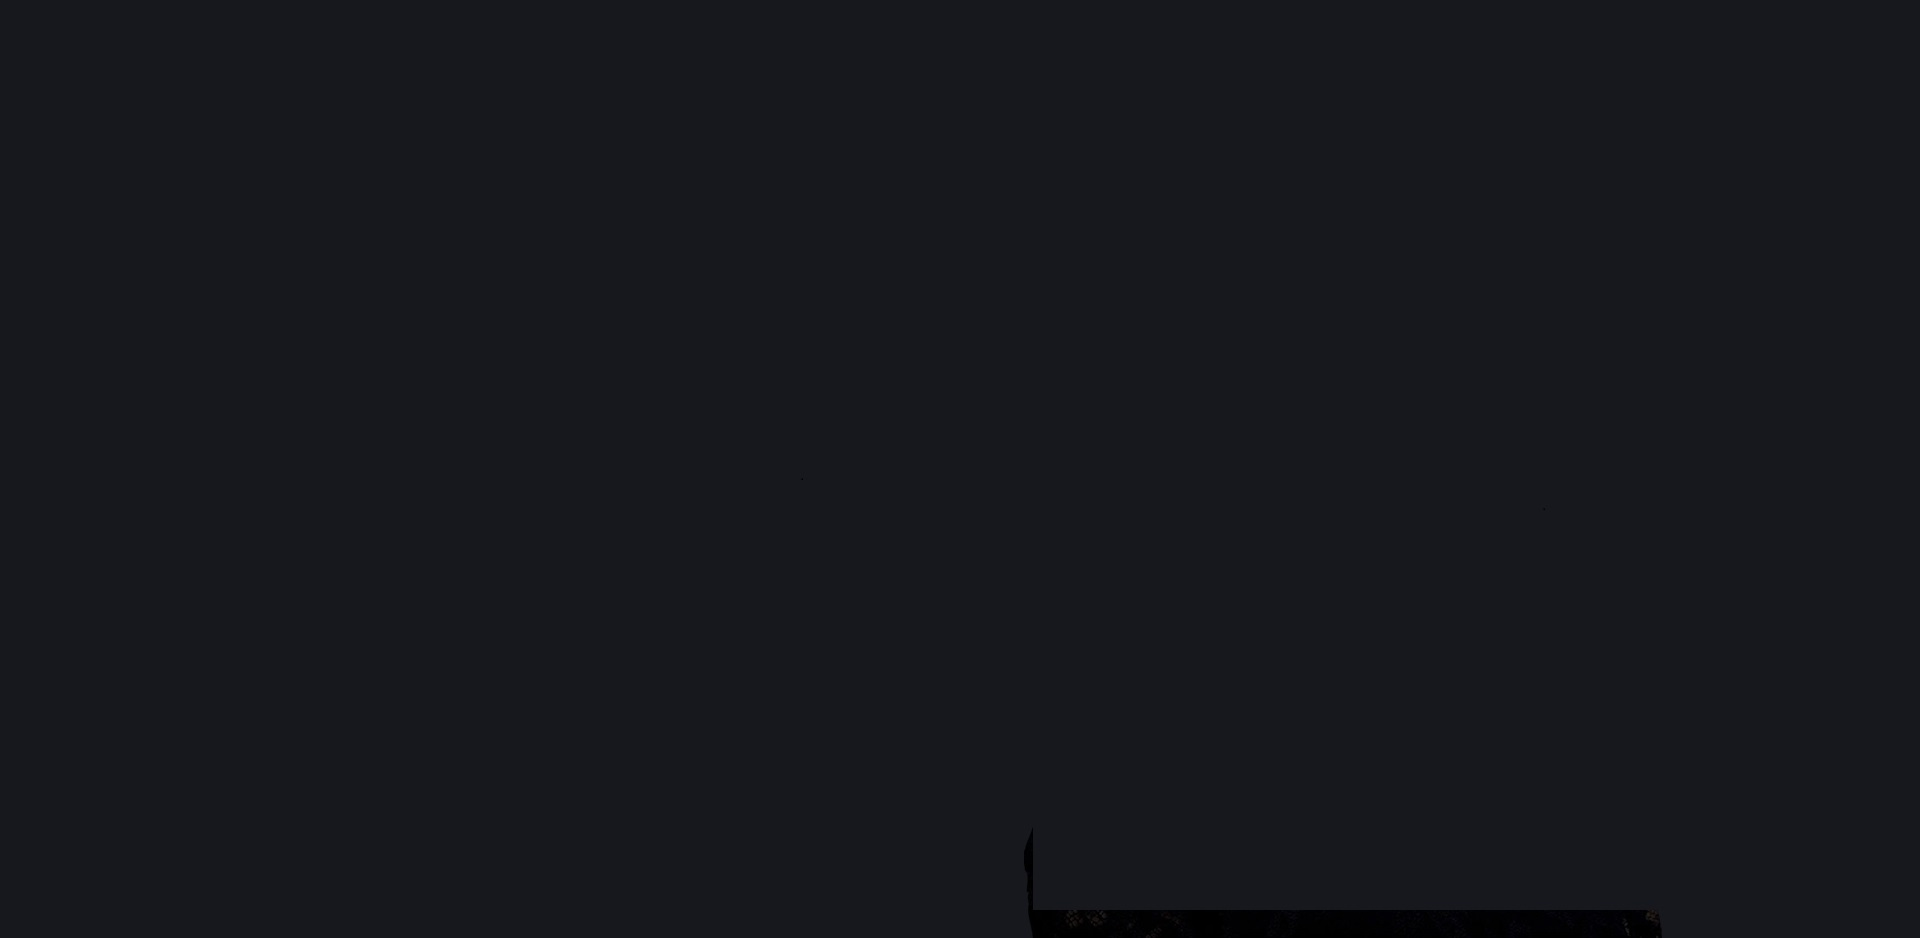
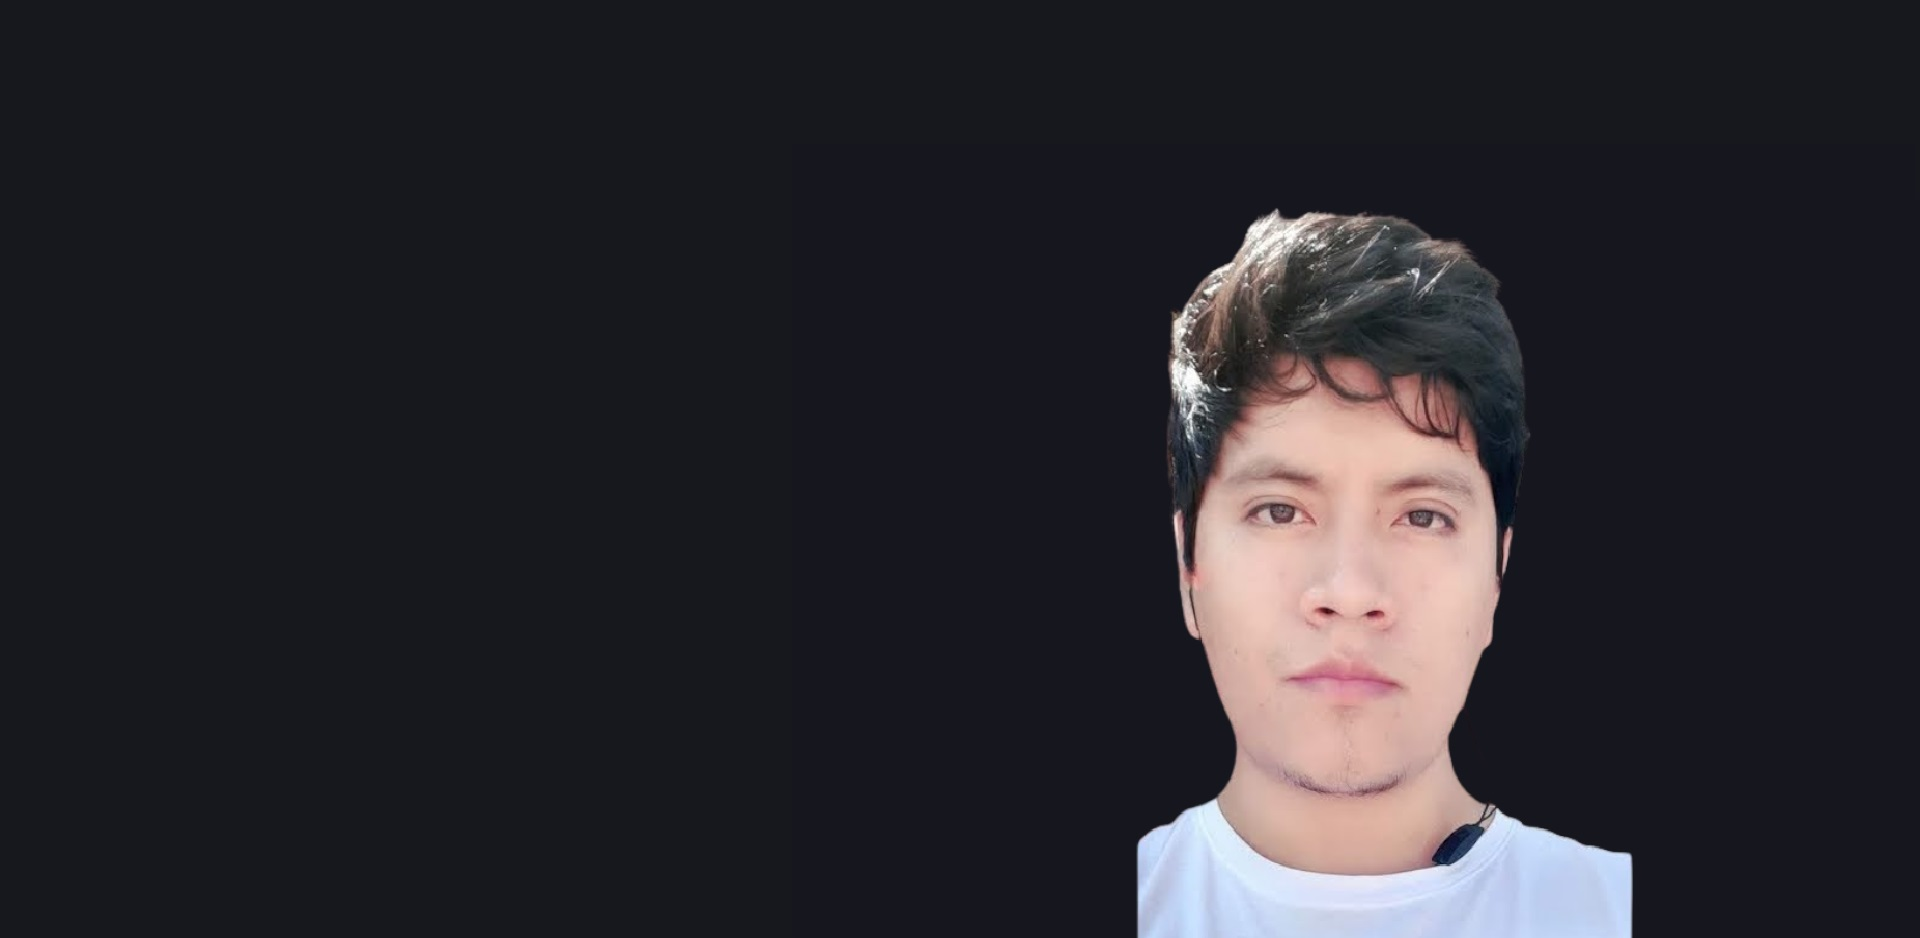
update

Changed region(s): [[0.5312, 0.2164, 0.875, 1.0], [0.5312, 0.8966, 0.5625, 0.9275]]

diff --git a/index.html b/index.html
@@ -87,7 +87,7 @@
                     </div>
                 </div>
 
-                <img src="assets/img/home-img.png" alt="" class="home__img">
+                <img src="assets/img/Perfil-removebg-PhotoRoom.png" alt="" class="home__img">
                 <div class="home__data">
                     <h1 class="home__title">Hello, I'm Jhonatan Mantilla</h1>
                     <h3 class="home__subtitle">Full-Stack Developer</h3>
@@ -133,7 +133,7 @@
             <h2 data-heading="My Info" class="section__title">About Me</h2>
        
             <div class="about__container container grid">
-                <img src="assets/img/about-img.jpg" alt="" class="about__img">
+                <img src="assets/img/Perfil-removebg-PhotoRoom.png" alt="" class="about__img">
             
                 <div class="about__data">
                     <h3 class="about__heading">Hi, I'm Jhonatan Mantilla</h3>
@@ -790,27 +790,28 @@
                 </div>
 
                 <div class="contact__content">
-                    <form action="" class="contact__form">
+                    <form action="" class="contact__form" id="contact__form">
                         <div class="input__container">
-                            <input type="text" class="input">
+                            <input type="text" class="input" name="name" id="contact__username">
                             <label for="">Username</label>
                             <span>Username</span>
                         </div>
                         <div class="input__container">
-                            <input type="email" class="input">
+                            <input type="email" class="input" name="email" id="contact__email">
                             <label for="">Email</label>
                             <span>Email</span>
                         </div>
                         <div class="input__container">
-                            <input type="tel" class="input">
-                            <label for="">Phone</label>
-                            <span>Phone</span>
+                            <input type="sub" class="input" name="subject" id="contact__subject">
+                            <label for="">Subject</label>
+                            <span>Subject</span>
                         </div>
                         <div class="input__container textarea">
-                            <textarea name="" id="" class="input"></textarea>
+                            <textarea name="" id="message" rows="6"  name="message" class="input"></textarea>
                             <label for="">Message</label>
                             <span>Message</span>
                         </div>
+                        <p class="contact__message" id="contact__message">Message</p>
                         <button type="submit" class="button"><i class="uil uil-navigator button__icon"></i>
                             Send Message
                         </button>
@@ -863,6 +864,9 @@
 
         <!-- =============== MIXITUP FILTER =============== -->
         <script src="assets/js/mixitup.min.js"></script>
+
+        <!-- =============== EMAIL JS =============== -->
+        <script type="text/javascript" src="https://cdn.jsdelivr.net/npm/@emailjs/browser@3/dist/email.min.js"></script>
 
         <!-- =============== SWIPER JS =============== -->
         <script src="assets/js/swiper-bundle.min.js"></script>

diff --git a/assets/js/main.js b/assets/js/main.js
@@ -172,4 +172,31 @@ function navHighlighter() {
     })
 }
 
-/*=============== SHOW SCROLL UP ===============*/
+/*=============== Contact Form  ===============*/
+const contactForm = document.getElementById('contact__form'),
+contactUsername = document.getElementById('contact__username'),
+contactEmail = document.getElementById('contact__email'),
+contactSubject = document.getElementById('contact__subject'),
+Message = document.getElementById('message');
+
+const sendEmail = (e) => {
+    e.preventDefault();
+    // check if the field has a value
+    if(contactUsername.value === '' || contactEmail.value === '' ||
+    contactSubject.value === '' || Message.value === '') {
+        contactMessage.textContent = 'Write all the input fields';
+    } else {
+        // serviceID - templateID - #form - publickey
+        emailjs.sendForm('service_2aco0hg','template_yob9hln','contact__form','I95TsA84ROWVMaiGq').then(() => {
+            // show message
+            contactMessage.textContent='Message sent';
+
+            // remove message after 5 seconds
+            setTimeout(() =>{
+                contactMessage.textContent ='';
+            })
+        },5000);
+    }
+};
+
+contactForm.addEventListener('#submit', sendEmail);

diff --git a/assets/css/style.css b/assets/css/style.css
@@ -260,7 +260,7 @@ input {
 
 /* ===== Home Section ===== */
 .home {
-    background: url('../img/home-bg.jpg');
+    background: url('../img/home-bg1.jpg');
     background-size: cover;
     background-position: center center;
     height: 100vh;
@@ -980,6 +980,13 @@ input {
 .contact__card-data {
     display: block;
     margin-bottom: var(--mb-0-75);
+}
+
+.contact__message{ 
+    position: absolute;
+    bottom: 33%;
+    left: 0;
+    font-size: var(--small-font-size);
 }
 
 .contact__button {
